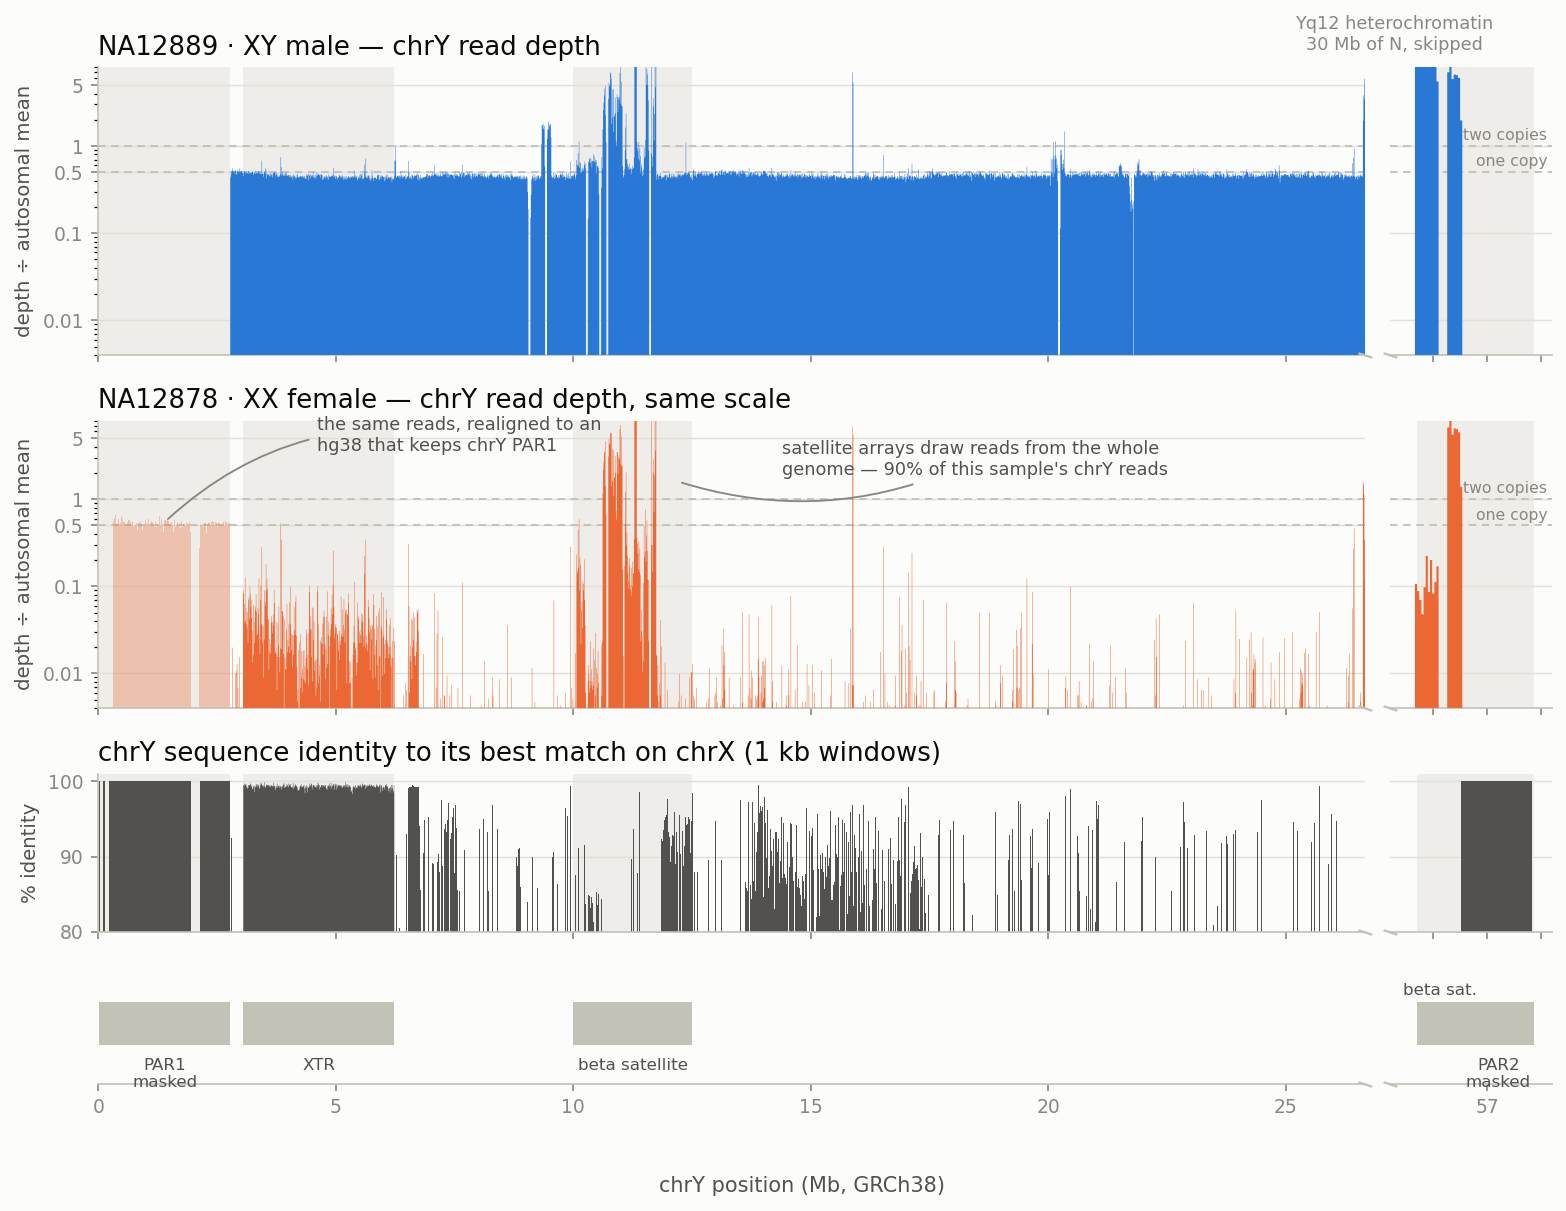
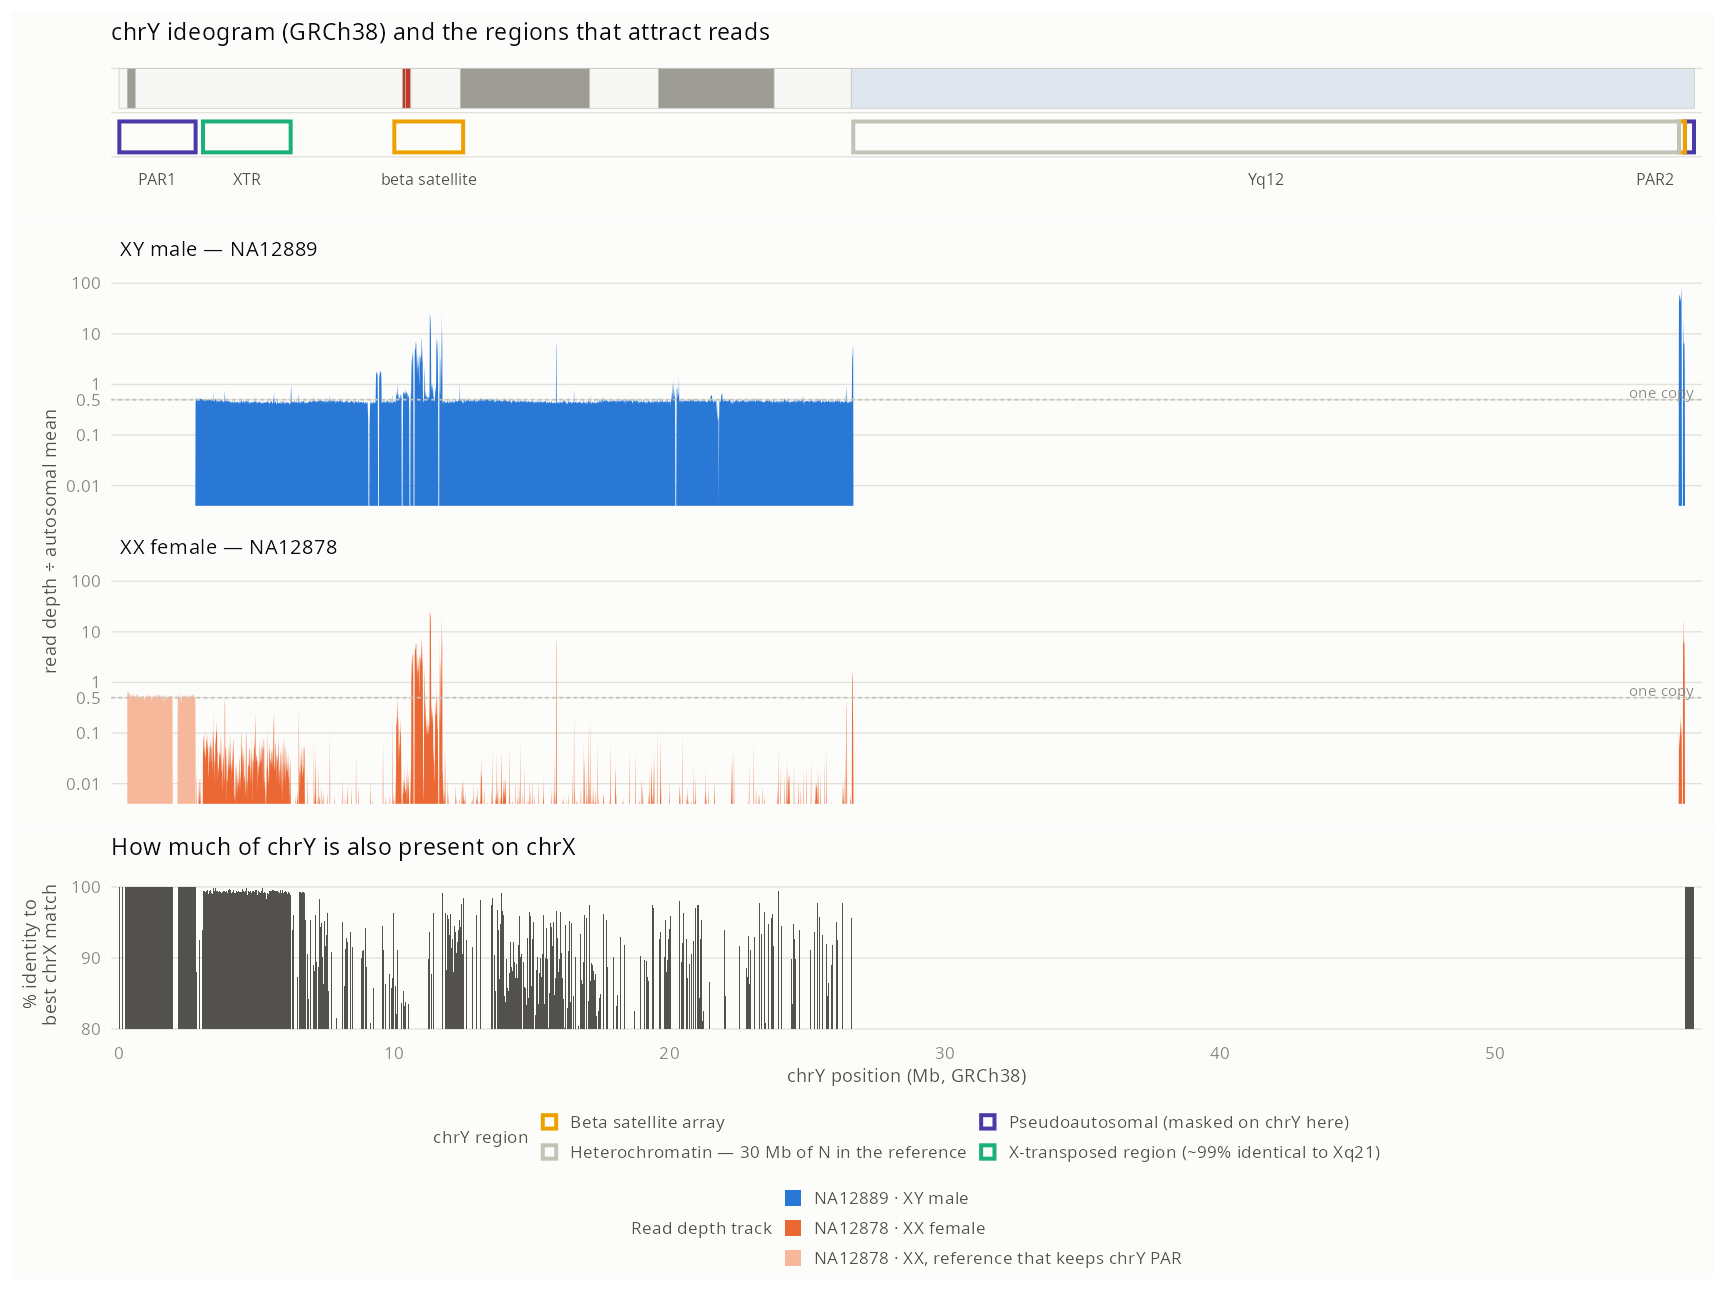
Add TL;DR and ggplot2 ideogram/window figures to chrY entry
Replaces the chrY overview with a ggplot2 version carrying a proper GRCh38
ideogram, a labelled region track and legends for both the depth tracks and the
region classes. Adds a three-window figure showing that PAR1 and beta satellite
cannot distinguish XX from XY, while unique male-specific sequence can.

diff --git a/README.md b/README.md
@@ -1268,14 +1268,30 @@ https://academic.oup.com/gpb/article/23/4/qzaf058/8174973?login=false&utm_source
 
 ### XX samples still have hundreds of thousands of reads on chrY
 
+**TL;DR** — every XX sample carries reads on chrY. NA12878, a karyotypically XX
+female, has 884,578 of them against an XY sample's 6,118,277: 14% of a real Y
+rather than zero, and 190,158 of hers survive a `MAPQ >= 30` filter. They come
+from sequence chrY shares with the rest of the genome — pseudoautosomal regions
+byte-identical to chrX, the X-transposed region at ~99% identity to Xq21, and
+beta satellite arrays. The measurement that does separate the two is depth
+across the male-specific region: 0.48x the autosomal mean for XY against 0.015x
+for XX.
+
 Reads mapped to chrY are not evidence of a Y chromosome. NA12878 is a
-karyotypically XX female sequenced to ~35x in the 1000 Genomes 30x collection.
-Her GRCh38 alignment carries 884,578 primary chrY reads, and 190,158 of those
-still survive a `MAPQ >= 30` filter.
+karyotypically XX female sequenced to ~35x in the 1000 Genomes 30x collection,
+aligned against an analysis-set GRCh38 that already hard-masks PAR on chrY.
 
-![chrY read depth in an XX and an XY sample](img/chry_female.png)
+Pick the wrong window and she is still indistinguishable from an XY sample. Give
+both samples a reference that keeps chrY PAR and their PAR1 depth lands on top
+of itself at one copy; inside a beta satellite array both pile up past 100x the
+autosomal mean. Only sequence unique to a real Y pulls them apart.
 
-Three separate things put reads there.
+![Per-base chrY depth in three windows, XX vs XY](img/chry_windows.png)
+
+Three separate things put reads on chrY in an XX sample, and the ideogram shows
+where each of them sits.
+
+![chrY ideogram with read depth in an XX and an XY sample](img/chry_female.png)
 
 **The pseudoautosomal regions are the same sequence twice.** PAR1 and PAR2 sit
 on both chrX and chrY, and in hg38 they are not merely similar, they are
